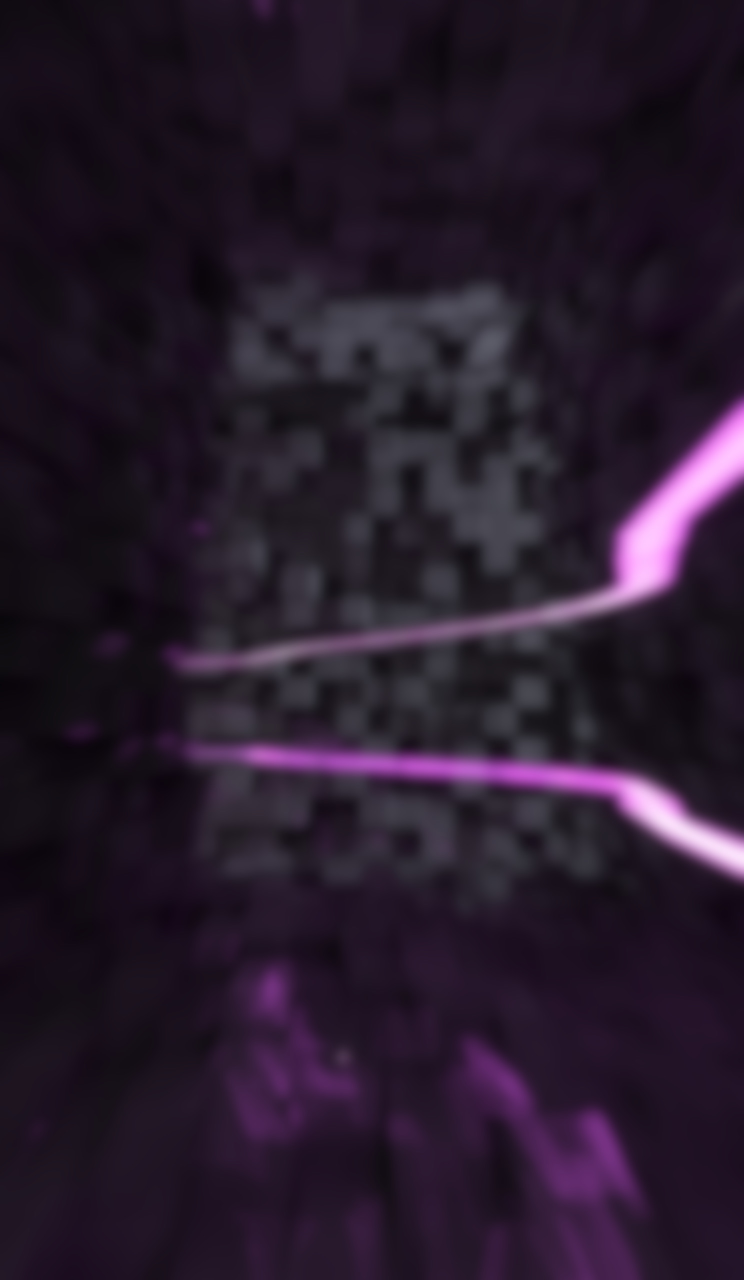
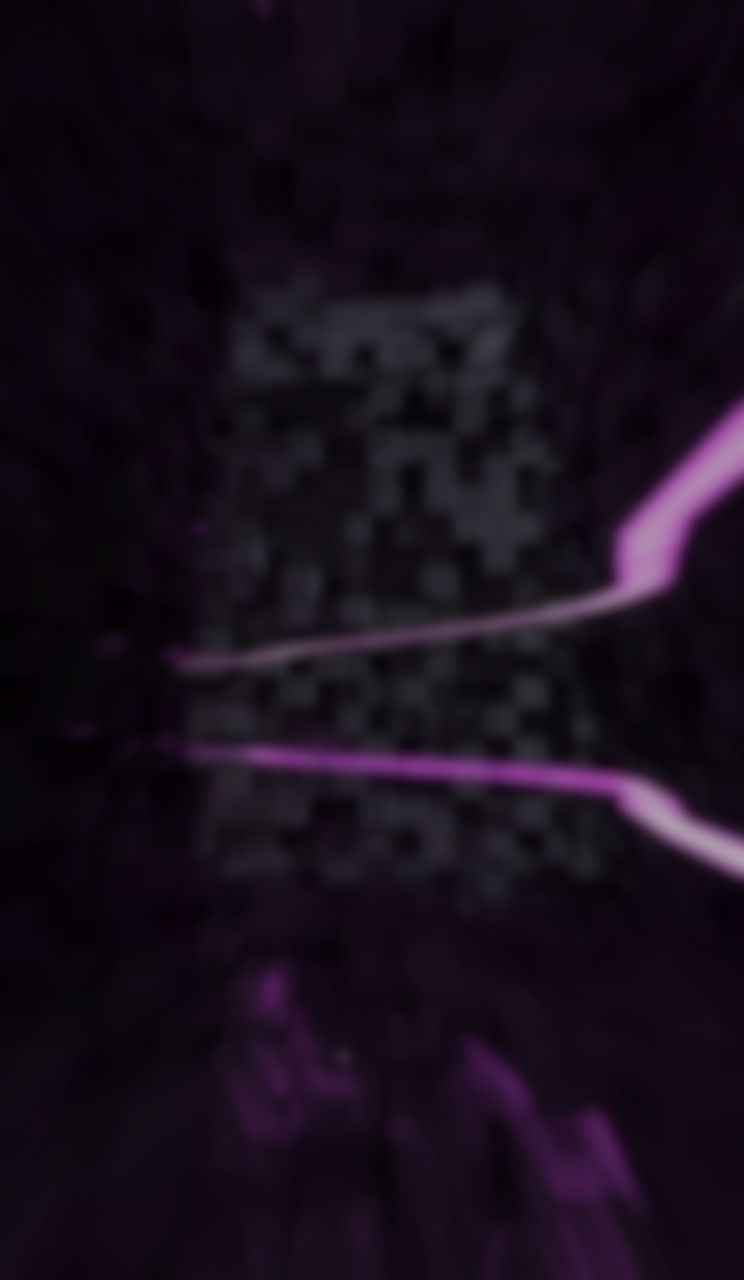
feat: label renderi time result closes #34
fix: changed brightness and contrast background `bg_2.png` image

diff --git a/src/main.py b/src/main.py
@@ -171,7 +171,8 @@ class MDSRTGO_scr_2(Screen):
 
         lbl_render_frame = MDLabel(
             text='RENDER TIME ONE FRAME',
-            halign='center',
+            halign='left',
+            size_hint=(None,None), size=(170,40),
             pos_hint={'center_x':0.24, 'center_y':0.84},
             font_style='Body2',
             theme_text_color='Hint')
@@ -242,6 +243,23 @@ class MDSRTGO_scr_2(Screen):
             size_hint_x=0.75,
             color='#7c7c7c')
 
+        lbl_render_time = MDLabel(
+            text='RENDER TIME',
+            halign='left',
+            size_hint=(None,None), size=(170,40),
+            pos_hint={'center_x':0.24, 'center_y':0.5},
+            font_style='Body2',
+            theme_text_color='Hint')
+
+        lbl_render_time_result = MDLabel(
+            text='10 minutes',
+            halign='left',
+            size_hint=(None,None), size=(170,40),
+            pos_hint={'center_x':0.24, 'center_y':0.45},
+            font_style='H5',
+            theme_text_color='Custom',
+            text_color = [.2510,.5529,.9765,1])
+
         btn_app_info = MDFlatButton(
             text='app info', size_hint=(None,None), size=(101,40),
             pos_hint={'x':0.416,'y':0.03},
@@ -274,6 +292,9 @@ class MDSRTGO_scr_2(Screen):
         layout.add_widget(lbl_seconds)
         layout.add_widget(lbl_seconds_val)
         layout_box.add_widget(sld_seconds_val)
+
+        layout.add_widget(lbl_render_time)
+        layout.add_widget(lbl_render_time_result)
 
         layout.add_widget(btn_app_info)
         layout.add_widget(lbl_info_version)
